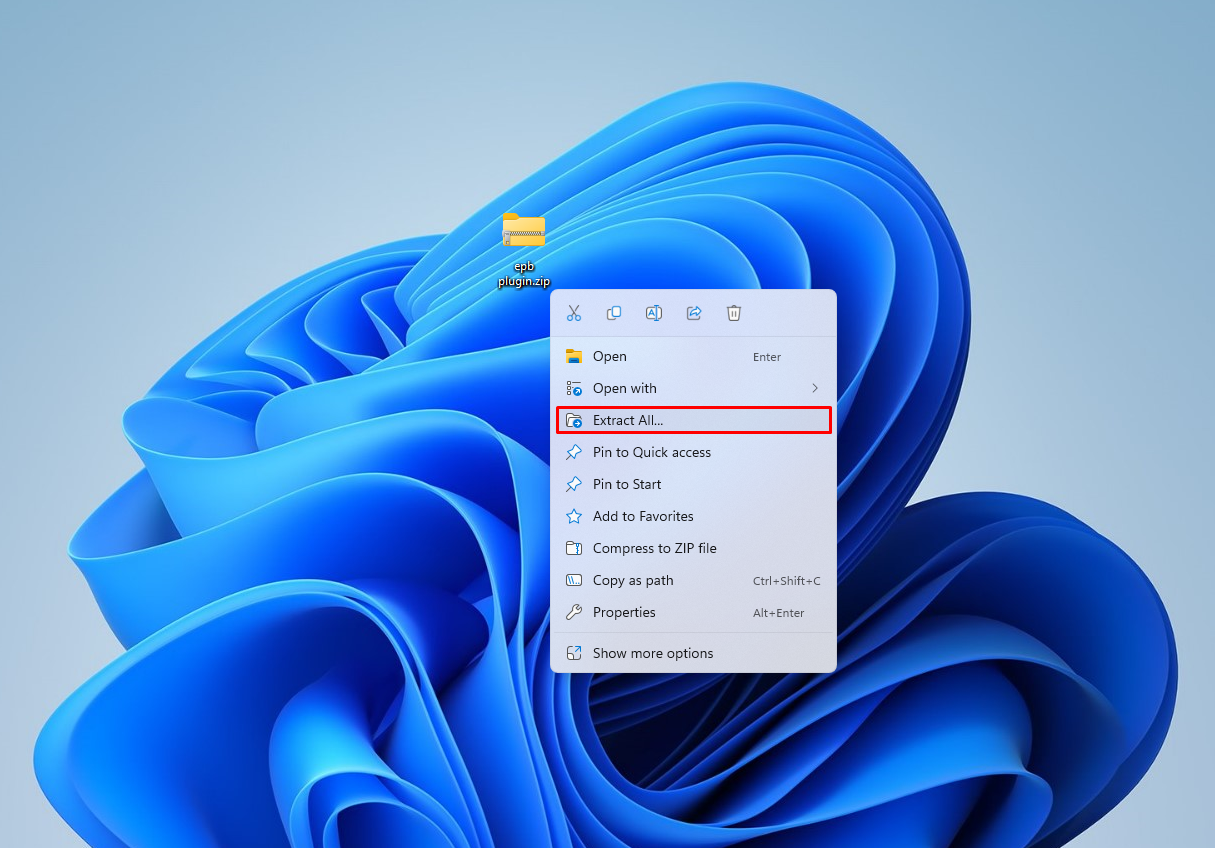
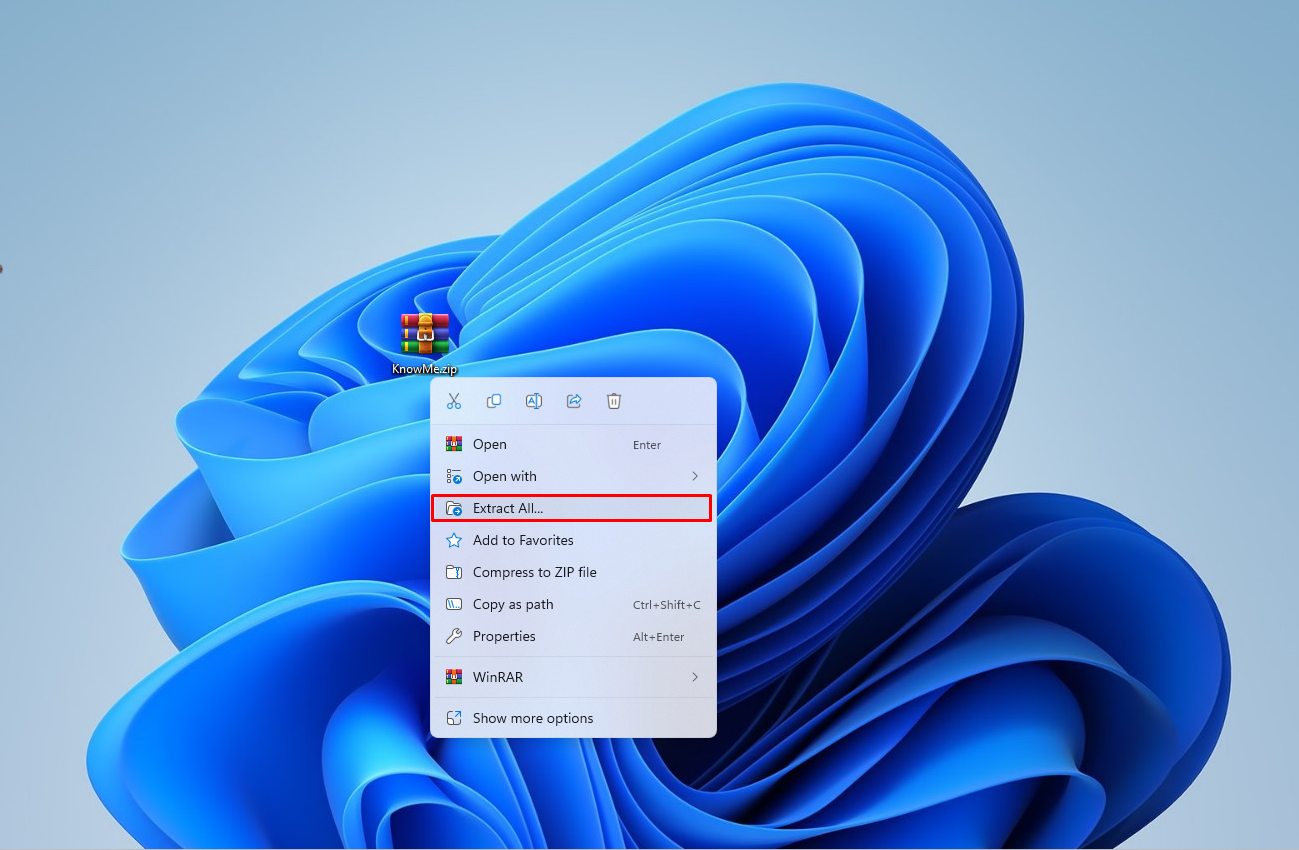
plugin name & some screenshoot changed

diff --git a/index.html b/index.html
@@ -96,18 +96,18 @@
 				<ul type="square">
 				    <li>Extract the downloaded file</li>
 					<img src="assets/screenshots/Screenshot_1.png" alt="screenshot">
-				    <li>After the extraction process is completed, Double click on the extracted folder, Inside that you will find a '<strong>zip</strong>' file named '<strong>epb.zip</strong>'</li>
+				    <li>After the extraction process is completed, Double click on the extracted folder, Inside that you will find a '<strong>zip</strong>' file named '<strong>KnowMe.zip</strong>'</li>
 					<img src="assets/screenshots/Screenshot_2.png" alt="screenshot">
 				    <li>Go to the WordPress <strong>Dashboard &rarr; Plugins &rarr; Add new &rarr; Upload Plugin</strong> & select the zip file mentioned above</li>
 					<img src="assets/screenshots/Screenshot_13.png" alt="screenshot">
 				    <li>Click on '<strong>Install Now</strong>' button & Wait till the plugin is installed</li>
 					<img src="assets/screenshots/Screenshot_4.png" alt="screenshot">
-				    <li>When the installation process is completed, Go to the '<strong>Installed Plugins</strong>' Section & <strong>Activate</strong> the plugin named '<strong>Elementor portfolio builder</strong>'</li>
+				    <li>When the installation process is completed, Go to the '<strong>Installed Plugins</strong>' Section & <strong>Activate</strong> the plugin named '<strong>KnowMe</strong>'</li>
 					<img src="assets/screenshots/Screenshot_5.png" alt="screenshot">
 					<!-- Sub-items -->
 					   
 					<!-- end-Sub-items -->
-				    <li> Now, Click on the button mentioned below.</li>
+				    <li> Now, Click on the button mentioned below. It will install required plugins</li>
 					<img src="assets/screenshots/Screenshot_10.png" alt="screenshot">
 				    <li>Install those plugins. Check the checkbox beside the plugin label & from the <strong>Bulk actions</strong> dropdown select <strong>Install</strong> then click on the button named '<strong>Apply</strong>'</li>
 					<img src="assets/screenshots/Screenshot_20.png" alt="screenshot">
@@ -123,7 +123,7 @@
 					<img src="assets/screenshots/Screenshot_3.png" alt="screenshot">
 					<li>After that click on the button named '<strong>Edit with Elementor</strong>', It will open the page with elementor editor panel</li>
 					<img src="assets/screenshots/Screenshot_6.png" alt="screenshot">
-					<li>After the editor panel is loaded, Move your cursor to the left side & scroll down until you find the widget category named '<strong>Epb Addons</strong>'. Below the category, You will find all the custom widgets needed to build a awesome portfolio website :)</li>
+					<li>After the editor panel is loaded, Move your cursor to the left side & scroll down until you find the widget category named '<strong>KnowMe Addons</strong>'. Below the category, You will find all the custom widgets needed to build a awesome portfolio website :)</li>
 					<img src="assets/screenshots/Screenshot_7.png" alt="screenshot">
 					<li> You can follow this configuration to start with a blank canvas</li>
 					<img src="assets/screenshots/Screenshot_8.png" alt="screenshot">
